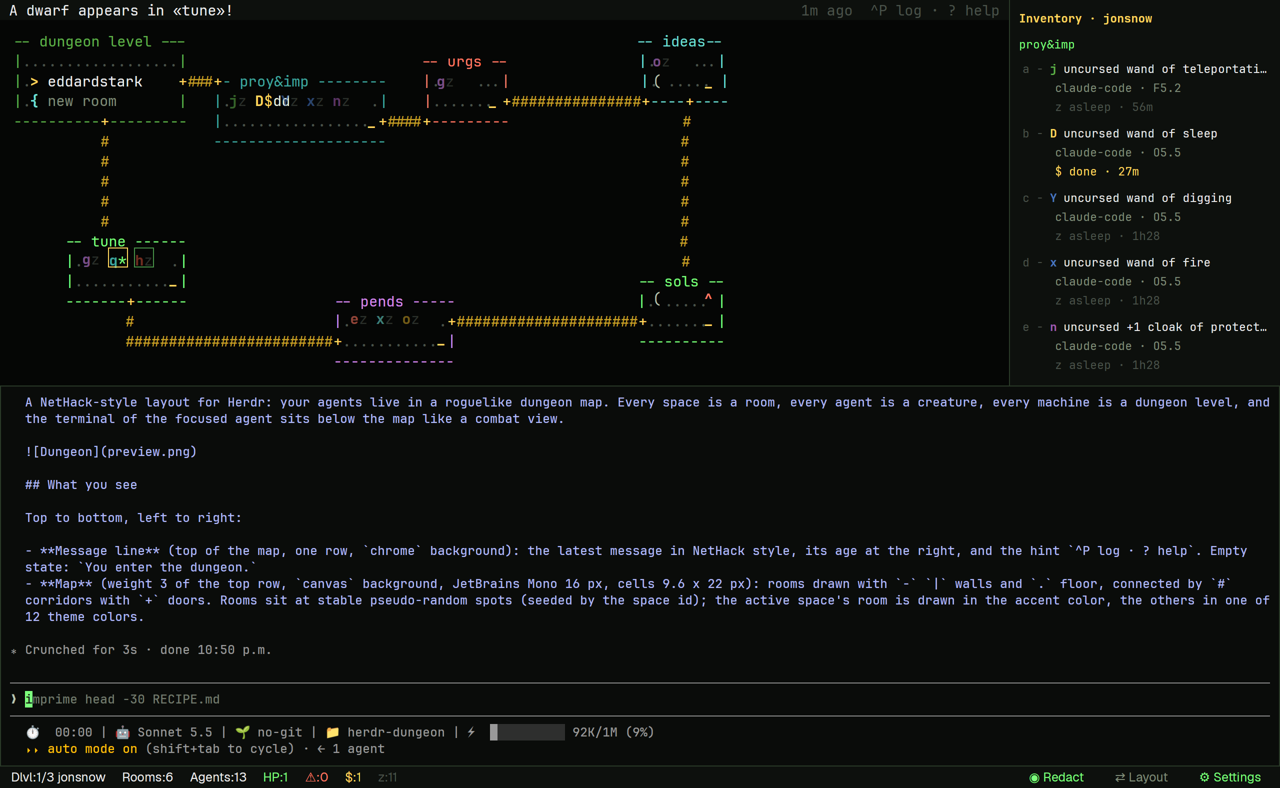
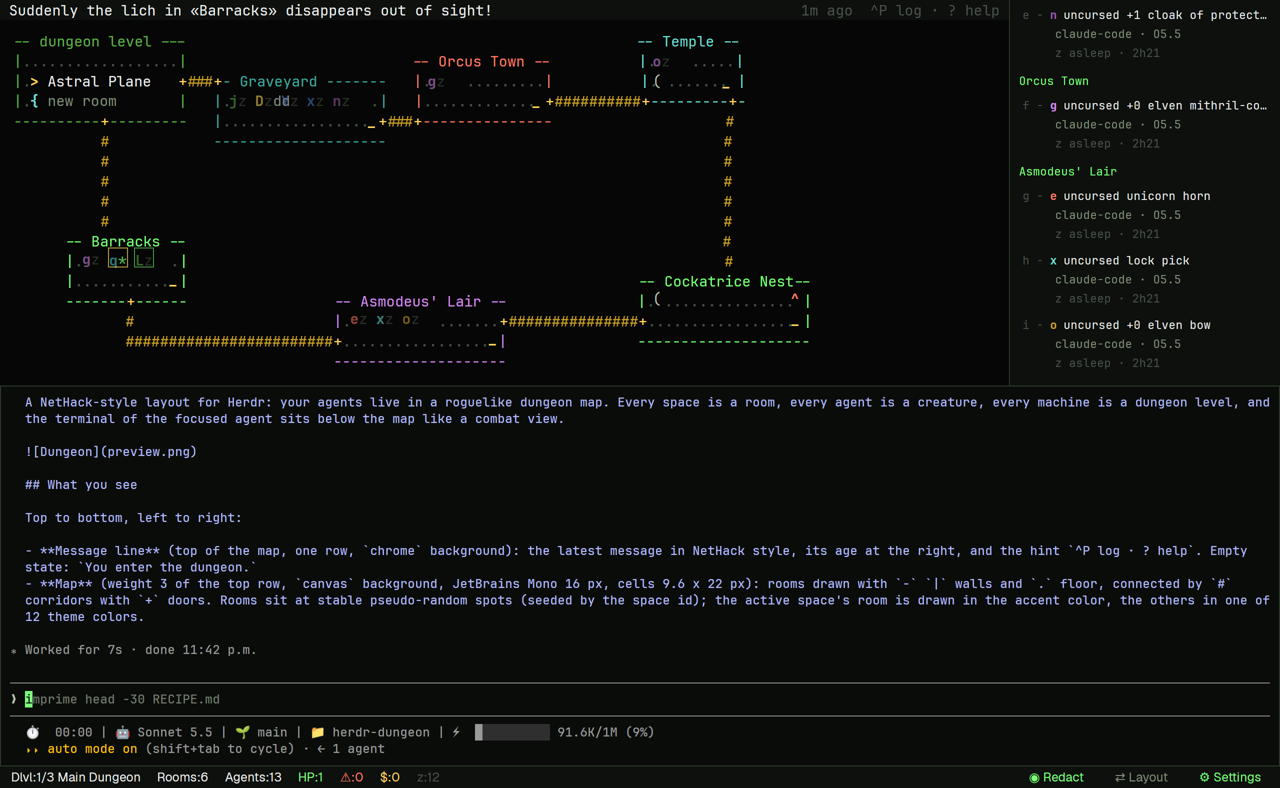
Redact mode: NetHack room types and dungeon branches

diff --git a/mods/dungeon-map/main.js b/mods/dungeon-map/main.js
@@ -5,6 +5,11 @@ const CW = 9.6, CH = 22, FONT = "JetBrains Mono", FS = 16;
 // Bestiary: species comes from the agent's address; its state is a separate mark.
 const BESTIARY = ["k", "o", "g", "h", "n", "e", "S", "D", "L", "T", "C", "Y", "x", "j", "B", "q"];
 const SPECIES = { k: "kobold", o: "orc", g: "gnome", h: "dwarf", n: "nymph", e: "floating eye", S: "snake", D: "dragon", L: "lich", T: "troll", C: "centaur", Y: "yeti", x: "grid bug", j: "jelly", B: "bat", q: "rothe" };
+// Redact mode: private room names become NetHack room types, machine names become dungeon branches.
+const ROOM_TYPES = ["Zoo", "Graveyard", "Big Room", "Castle", "Medusa's Lair", "Vlad's Tower", "Beehive", "Barracks", "Throne Room", "Treasure Vault", "Oracle", "Delphi", "Minetown", "Temple",
+  "Shop", "Library", "Swamp", "Leprechaun Hall", "Cockatrice Nest", "Anthole", "Morgue", "Closet", "Wizard's Tower", "Valley of the Dead", "Orcus Town", "Asmodeus' Lair", "Baalzebub's Lair",
+  "Juiblex's Swamp", "Rogue Level", "Mines' End", "Quest Portal", "Sanctum"];
+const LEVELS = ["Main Dungeon", "Gehennom", "Sokoban", "Gnomish Mines", "The Quest", "Fort Ludios", "Elemental Planes", "Astral Plane"];
 const TOP = CH; // row reserved at the top for the message line
 const hash = (s) => { let h = 7; for (const c of String(s)) h = (h * 31 + c.charCodeAt(0)) >>> 0; return h; };
 const rnd = (seed) => { let s = seed >>> 0 || 1; return () => ((s = (s * 1664525 + 1013904223) >>> 0) / 4294967296); };
@@ -114,6 +119,29 @@ export default class DungeonMap extends View {
     if (idx < 0) { idx = Math.max(0, lv.findIndex((l) => l.key === "")); if (want !== lv[idx]?.key && lv[idx]) setShared("dungeon.level", lv[idx].key); }
     const curKey = lv[idx]?.key ?? "";
     this.lv = lv; this.idx = idx;
+    // Aliases are assigned once per private name, kept in shared state (so the other mods read them) and never repeat while the catalog lasts.
+    const redact = !!shared("dungeon.redact");
+    const al = { ...(shared("dungeon.aliases") ?? {}) };
+    let aliasDirty = false;
+    const give = (key, pool, forced) => {
+      if (al[key]) return;
+      const taken = new Set(Object.values(al));
+      let i = hash(key) % pool.length;
+      for (let k = 0; k < pool.length && taken.has(pool[i]); k++) i = (i + 1) % pool.length;
+      al[key] = forced ?? pool[i]; aliasDirty = true;
+    };
+    for (const l of lv) give("m:" + l.name, LEVELS, l.key === "" ? "Main Dungeon" : undefined);
+    for (const x of allSp) give("r:" + x.name, ROOM_TYPES);
+    if (aliasDirty) setShared("dungeon.aliases", al);
+    const dn = (s) => (s.id === "__stairs" ? s.name : redact ? al["r:" + s.name] ?? "a room" : s.name);
+    const dm = (name) => (redact ? al["m:" + name] ?? "a level" : name);
+    const lab = (s) => `${dn(s)}${s.machine ? "@" + dm(s.machine) : ""}`;
+    const fmt = (x) => {
+      if (!redact) return x;
+      return x.replace(/ \([^()]*\)$/, "").replace(/(drops some gold): .*$/, "$1.")
+        .replace(/«([^»]*)»/g, (_m, n) => `«${al["r:" + n] ?? "a room"}»`)
+        .replace(/(stairs to )(.+?)( collapse| are)/, (_m, a, n, c) => `${a}${al["m:" + n] ?? "a distant level"}${c}`);
+    };
     const snap = {
       ag: new Map(ag.map((a) => [a.address, { st: a.status, title: a.title || a.pane_name || a.address, room: a.space_name }])),
       sp: new Map(allSp.map((x) => [x.id, x.name])),
@@ -142,7 +170,7 @@ export default class DungeonMap extends View {
       const shells = s.id === "__stairs" ? [] : allPanes.filter((q) => q.terminal && !q.mod && q.status == null && tabSpace.get(q.tab) === s.id);
       const R = rnd(hash(s.id));
       const slot = slots[order.indexOf(i)] ?? slots[0];
-      const need = s.id === "__stairs" ? 30 : Math.max(s.name.length + 4, mine.length * 3 + 5, shells.length * 2 + 5);
+      const need = s.id === "__stairs" ? 30 : Math.max(lab(s).length + 6, mine.length * 3 + 5, shells.length * 2 + 5);
       const w = Math.max(10, Math.min(sw - 3, need));
       const perRow = Math.max(1, Math.floor((w - 4) / 3));
       const perRowS = Math.max(1, Math.floor((w - 4) / 2));
@@ -190,7 +218,7 @@ export default class DungeonMap extends View {
     });
 
     for (const r of rooms) {
-      const label = ` ${r.s.name}${r.s.machine ? "@" + r.s.machine : ""} `.slice(0, r.w - 4);
+      const label = ` ${lab(r.s)} `.slice(0, r.w - 4);
       [...label].forEach((ch, i) => put(r.x + 2 + i, r.y, ch, r.s.active ? t.accent : r.hue));
     }
 
@@ -224,7 +252,7 @@ export default class DungeonMap extends View {
       const parts = !c ? [["?", t.dim]] : [["!" + c.blocked, t.blocked, c.blocked], ["$" + c.done, t.done, c.done], ["*" + c.working, t.working, c.working]].filter((q) => q[2]);
       const el = div().id(`stair-${g}`).absolute().left((sr.x + 2) * CW + CW / 2).top((sr.y + 1 + row) * CH + CH / 2 + TOP).h(CH)
         .flex().flex_row().whitespace_nowrap().text_color(t.ansi11)
-        .child(div().font_bold().child(g)).child(div().text_color(L.ready ? t.foreground : t.dim).child(` ${L.name} `))
+        .child(div().font_bold().child(g)).child(div().text_color(L.ready ? t.foreground : t.dim).child(` ${dm(L.name)} `))
         .children(parts.map((q) => div().text_color(q[1]).child(q[0] + " ")));
       if (L.ready) el.hover((st) => st.bg(t.raised)).on_click(() => setShared("dungeon.level", L.key));
       else el.opacity(0.5);
@@ -255,9 +283,6 @@ export default class DungeonMap extends View {
     const now = Date.now();
     const ago = (ms) => { const m = Math.floor(ms / 60000); return m < 1 ? "now" : m < 60 ? `${m}m ago` : `${Math.floor(m / 60)}h ago`; };
     const KC = { blocked: t.blocked, done: t.done, info: t.foreground };
-    // Redact mode drops the terminal title that some messages carry.
-    const redact = !!shared("dungeon.redact");
-    const fmt = (x) => (redact ? x.replace(/ \([^()]*\)$/, "").replace(/(drops some gold): .*$/, "$1.") : x);
     const last = this.msgs[0];
     const bar = div().id("msgbar").absolute().left(0).top(0).w_full().h(CH).bg(t.chrome).px(10).flex().flex_row().items_center().gap(10).whitespace_nowrap().overflow_hidden()
       .child(div().text_color(last ? KC[last.kind] ?? t.foreground : t.muted).child(last ? fmt(last.text) : "You enter the dungeon."))
@@ -290,7 +315,7 @@ export default class DungeonMap extends View {
       .child(div().id("dm-probe").absolute().left(0).top(0).w(1000).h(10).opacity(0).on_size_change((sz, cx2) => { const k = sz.width / 1000; if (k > 0 && Math.abs(k - this.k) > 1e-3) { this.k = k; cx2.notify(); } }))
       .children(stairEls)
       .children(rooms.map((r) => {
-        const len = Math.min(` ${r.s.name}${r.s.machine ? "@" + r.s.machine : ""} `.length, r.w - 4);
+        const len = Math.min(` ${lab(r.s)} `.length, r.w - 4);
         return div().id(`title-${r.s.id}`).absolute().left((r.x + 2) * CW + CW / 2).top(r.y * CH + CH / 2 + TOP).w(len * CW).h(CH)
           .hover((st) => st.bg(t.raised).opacity(0.5))
           .on_mouse_down("left", (e) => { this.drag = { id: r.s.id, sx: e.position.x, sy: e.position.y, ox: r.x, oy: r.y, w: r.w, h: r.h, cx: r.x, cy: r.y, moved: false }; })

diff --git a/mods/dungeon-sheet/main.js b/mods/dungeon-sheet/main.js
@@ -62,7 +62,8 @@ export default class DungeonSheet extends View {
 
   render() {
     const t = theme(), now = Date.now();
-    const redact = !!shared("dungeon.redact"); // redact mode: show a NetHack item instead of the terminal title
+    const redact = !!shared("dungeon.redact");
+    const al = shared("dungeon.aliases") ?? {}; // redact mode: show a NetHack item instead of the terminal title
     const hues = [t.ansi1, t.ansi2, t.ansi3, t.ansi4, t.ansi5, t.ansi6, t.ansi9, t.ansi10, t.ansi11, t.ansi12, t.ansi13, t.ansi14];
     const ag = agents(), terms = terminals();
     this.track(ag, now);
@@ -82,9 +83,9 @@ export default class DungeonSheet extends View {
     const groups = spaces().filter((s) => (s.machine ?? "") === curKey).map((s) => ({ s, mine: ag.filter((a) => a.space === s.id) })).filter((g) => g.mine.length);
 
     return v_flex().id("sheet-root").size_full().bg(t.chrome).p(10).gap(8).overflow_y_scrollbar().font_family(FONT).text_size(13).text_color(t.foreground)
-      .child(div().text_color(t.ansi11).font_bold().child("Inventory · " + (curKey || shared("dungeon.host") || "local")))
+      .child(div().text_color(t.ansi11).font_bold().child("Inventory · " + (redact ? al["m:" + (curKey || shared("dungeon.host") || "local")] ?? "a level" : curKey || shared("dungeon.host") || "local")))
       .children(groups.map(({ s, mine }) => v_flex().gap(4)
-        .child(div().text_color(t.accent).child(s.name + (s.machine ? "@" + s.machine : "")))
+        .child(div().text_color(t.accent).child((redact ? al["r:" + s.name] ?? "a room" : s.name) + (s.machine ? "@" + (redact ? al["m:" + s.machine] ?? "a level" : s.machine) : "")))
         .children(mine.map((a) => {
           const hh = hash(a.address), [mk, mc, word] = MARK[a.status] ?? MARK.idle;
           const since = this.changed[a.address]?.t ?? now;

diff --git a/mods/dungeon-status/main.js b/mods/dungeon-status/main.js
@@ -12,7 +12,8 @@ export default class DungeonStatus extends View {
       .sort((a, b) => (a.key === "" ? -1 : b.key === "" ? 1 : a.key.localeCompare(b.key)));
     const want = shared("dungeon.level") ?? "";
     const at = Math.max(0, ms.findIndex((m) => m.key === want && m.ok));
-    const dl = `${at + 1}/${ms.length} ${ms[at]?.key || shared("dungeon.host") || "local"}`;
+    const lvName = ms[at]?.key || shared("dungeon.host") || "local";
+    const dl = `${at + 1}/${ms.length} ${shared("dungeon.redact") ? (shared("dungeon.aliases") ?? {})["m:" + lvName] ?? "a level" : lvName}`;
     return div().size_full().bg(t.chrome).px(12).flex().items_center().gap(18).text_size(14).text_color(t.foreground)
       .child(`Dlvl:${dl}`).child(`Rooms:${spaces().length}`).child(`Agents:${a.length}`)
       .child(div().text_color(t.working).child(`HP:${n("working")}`))

diff --git a/RECIPE.md b/RECIPE.md
@@ -43,7 +43,7 @@ Mouse:
 
 Keyboard (click the map first so it has focus): arrows or `h j k l` move the selection (yellow border) to the nearest creature in that direction; `Enter` focuses it; `p` peeks; `< >` change level; `_` opens the altar menu of its room; `Ctrl-P` shows the last 20 messages; `?` shows help; `Esc` closes either panel.
 
-Redact mode (`◐ Redact` in the status line, saved across restarts): the inventory shows a NetHack item (`blessed +2 long sword`, blessed/uncursed/cursed by state) instead of its terminal title, and messages drop the title they carry. Room and machine names, and the combat terminal, are not touched.
+Redact mode (`◐ Redact` in the status line, saved across restarts): the inventory shows a NetHack item (`blessed +2 long sword`, blessed/uncursed/cursed by state) instead of its terminal title, and messages drop the title they carry. Room names become NetHack room types (`Zoo`, `Graveyard`, `Castle`, `Medusa's Lair`, `Vlad's Tower`, `Beehive`, … 32 in all) and machine names become dungeon branches (the local machine is always `Main Dungeon`; others take `Gehennom`, `Sokoban`, `Gnomish Mines`, …). Each real name gets its alias once, remembered, and no two names share an alias while the catalog lasts. The `dungeon level` room and the combat terminal are not touched.
 
 Messages (English, last 50 kept): `The <monster> in «room» needs you! (title)` (red) when an agent becomes blocked; `The <monster> in «room» drops some gold: title` (gold) when `working` becomes `done`; `A/An <monster> appears in «room»!` and `Suddenly the <monster> in «room» disappears out of sight!` when an agent appears or goes away; `The ground trembles: room «x» appears.` / `Room «x» collapses.`; `The stairs to <machine> collapse!` / `… are passable again.` The same message about the same agent is throttled to once per 5 s, and nothing is reported during the first 3 s after the map loads.
 
@@ -53,7 +53,7 @@ Messages (English, last 50 kept): `The <monster> in «room» needs you! (title)`
 - `themes/dungeon.json`: near-black terminal background, green-phosphor accent `#7dff7d`, `working #7dff7d`, `blocked #ff7a66`, `done #ffd75e`, `idle #4a524a`.
 - `mods/dungeon-map` (`focusable: true`): builds a character grid per render; positions come from a seeded PRNG over a grid of slots; corridors are L-shaped paths between room centers; creatures, stairs, altars, trapdoors, terminals and titles are absolutely positioned overlays on top of the grid. Uses `spaces()`, `agents()`, `terminals()`, `panes()`, `machines()`, `shared`/`setShared` (key `dungeon.level`, `dungeon.host`), `setAgentOrder`, `openOverlay`, `exec` and `localStorage` (keys `pos`, `msgs`).
 - `mods/dungeon-sheet`: the inventory; reads the `herdr.model` label from `terminals()`; keeps `changed` in `localStorage` to time each state.
-- `mods/dungeon-status`: the status line; the Redact toggle lives in shared state `dungeon.redact` and `localStorage` key `redact`.
+- `mods/dungeon-status`: the status line; the Redact toggle lives in shared state `dungeon.redact` and `localStorage` key `redact`; the name aliases live in shared state `dungeon.aliases`.
 - `mods/dungeon-menu`: the altar popup (`knownAgents`, `run("tab.new")`).
 - Commands used: `agent.focus`, `terminal.peek`, `tab.new`, `space.new`, `space.close`, `space.rename`, `layout.switch`, `app.settings`.
 

diff --git a/README.md b/README.md
@@ -43,7 +43,7 @@ Needs: Herdr with agents that report their status (Claude Code, pi, …). JetBra
 | `_` | altar menu of the selected agent's room |
 | `Ctrl-P` / `?` / `Esc` | message log / help / close |
 
-The status line has buttons for **Redact** (shows NetHack items instead of terminal titles, handy for screenshots), **Layout** and **Settings**.
+The status line has buttons for **Redact** (shows NetHack items instead of terminal titles, NetHack room types instead of space names and dungeon branches instead of machine names; handy for screenshots), **Layout** and **Settings**.
 
 ## Good to know
 
